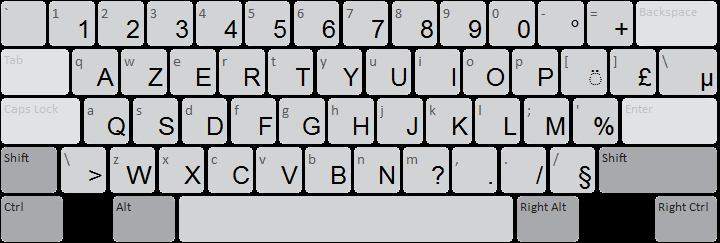
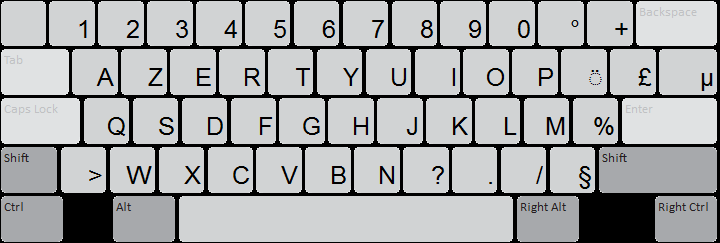
Updated help files to reflect swedish and french physical keyboards

diff --git a/togolese-help-us-qwerty.html b/togolese-help-us-qwerty.html
@@ -72,7 +72,7 @@
 
             <div class="alert alert-dismissible alert-warning">
               <button type="button" class="close" data-dismiss="alert">&times;</button>
-              <p>The Togolese layout is based on the Microsoft French (France) keyboard layout. All key sequence descriptions in this file are based on the printed keys on the French physical keyboard.</p>
+              <p>The Togolese layout is based on the Microsoft French (France) keyboard layout. All key sequence descriptions in this file are based on the printed keys on the US physical keyboard.</p>
               <p>The keyboard layout supports Adangbe, Ajagbe, Akaselem, Anii, Anufo, Bago/Kusuntu, Biali, Bisa, Delo, Ditammari, Evegbe, Fongbe, Fulfulde, Gengbe, Gidere, Ginyanga, Gulmancema, Ife, Igo, Ikposo, Kabiye, Kambole, Kebu, Konkomba, Kusaal, Lama, Lukpa, Mampruli, Mbelme, Migangam, Miyobe, Moba, Moore, Nawdm, Ncam, Pla-Peda and Tem.</p>
               <p>For KeymanWeb version of the layout, extended Latin characters are accessed via <kbd>Ctrl</kbd>+<kbd>Alt</kbd> key sequences. Keyman Desktop (Windows) and Keyman for Mac OSX use the <kbd>AltGr</kbd> and <kbd>Option</kbd> keys.</p>
             </div>
@@ -92,16 +92,16 @@
             </ul>
             <div id="myTabContent" class="tab-content">
               <div class="tab-pane fade active in" id="normal-state">
-                <p class="kbdimage"><img alt="Togolese keyboard layout &ndash; normal state" src="images/el_togoU_.png"></p>
+                <p class="kbdimage"><img alt="Togolese keyboard layout &ndash; normal state" src="images/el_togo_us_U_.png"></p>
               </div>
               <div class="tab-pane fade" id="shift-state">
-                <p class="kbdimage"><img alt="Togolese keyboard layout &ndash; shift state" src="images/el_togoU_S.png"></p>
+                <p class="kbdimage"><img alt="Togolese keyboard layout &ndash; shift state" src="images/el_togo_us_U_S.png"></p>
               </div>
               <div class="tab-pane fade" id="altgr-state">
-                <p class="kbdimage"><img alt="Togolese keyboard layout &ndash; AltGr state" src="images/el_togoU_RA.png"></p>
+                <p class="kbdimage"><img alt="Togolese keyboard layout &ndash; AltGr state" src="images/el_togo_us_U_RA.png"></p>
               </div>
               <div class="tab-pane fade" id="altgr-shift-state">
-                <p class="kbdimage"><img alt="Togolese keyboard layout &ndash; Shift AltGr state" src="images/el_togoU_SRA.png"></p>
+                <p class="kbdimage"><img alt="Togolese keyboard layout &ndash; Shift AltGr state" src="images/el_togo_us_U_SRA.png"></p>
               </div>
             </div>
 
@@ -130,15 +130,15 @@
                 </tr>
                 <tr>
                   <td class="glyph">ǝ</td>
-                  <td><kbd>AltGR</kbd>+<kbd>Q</kbd></td>
-                  <td><kbd>Option</kbd>+<kbd>Q</kbd></td>
-                  <td><kbd>Ctrl</kbd>+<kbd>Alt</kbd>+<kbd>Q</kbd></td>
+                  <td><kbd>AltGR</kbd>+<kbd>A</kbd></td>
+                  <td><kbd>Option</kbd>+<kbd>A</kbd></td>
+                  <td><kbd>Ctrl</kbd>+<kbd>Alt</kbd>+<kbd>A</kbd></td>
                 </tr>
                 <tr>
                  <td class="glyph">Ǝ</td>
-                 <td><kbd>AltGR</kbd>+<kbd>Shift</kbd>+<kbd>Q</kbd></td>
-                 <td><kbd>Option</kbd>+<kbd>Shift</kbd>+<kbd>Q</kbd></td>
-                 <td><kbd>Ctrl</kbd>+<kbd>Alt</kbd>+<kbd>Shift</kbd>+<kbd>Q</kbd></td>
+                 <td><kbd>AltGR</kbd>+<kbd>Shift</kbd>+<kbd>A</kbd></td>
+                 <td><kbd>Option</kbd>+<kbd>Shift</kbd>+<kbd>A</kbd></td>
+                 <td><kbd>Ctrl</kbd>+<kbd>Alt</kbd>+<kbd>Shift</kbd>+<kbd>A</kbd></td>
                 </tr>
                 <tr>
                   <td class="glyph">ɩ</td>
@@ -204,45 +204,45 @@
               <tbody>
                 <tr>
                   <td class="glyph">◌̂</td>
-                  <td><kbd>LBRCKT</kbd></td>
-                  <td><kbd>LBRCKT</kbd></td>
-                  <td><kbd>LBRCKT</kbd></td>
+                  <td><kbd>[</kbd></td>
+                  <td><kbd>[</kbd></td>
+                  <td><kbd>[</kbd></td>
                 </tr>
                 <tr>
                   <td class="glyph">◌̈</td>
-                  <td><kbd>Shift</kbd>+<kbd>^</kbd></td>
-                  <td><kbd>Shift</kbd>+<kbd>^</kbd></td>
-                  <td><kbd>Shift</kbd>+<kbd>^</kbd></td>
+                  <td><kbd>Shift</kbd>+<kbd>[</kbd></td>
+                  <td><kbd>Shift</kbd>+<kbd>[</kbd></td>
+                  <td><kbd>Shift</kbd>+<kbd>[</kbd></td>
                 </tr>
                 <tr>
                   <td class="glyph">◌̌</td>
-                  <td><kbd>AltGR</kbd>+<kbd>^</kbd></td>
-                  <td><kbd>Option</kbd>+<kbd>^</kbd></td>
-                  <td><kbd>Ctrl</kbd>+<kbd>Alt</kbd>+<kbd>^</kbd></td>
+                  <td><kbd>AltGR</kbd>+<kbd>[</kbd></td>
+                  <td><kbd>Option</kbd>+<kbd>[</kbd></td>
+                  <td><kbd>Ctrl</kbd>+<kbd>Alt</kbd>+<kbd>[</kbd></td>
                 </tr>
                 <tr>
                   <td class="glyph">◌́</td>
-                  <td><kbd>AltGR</kbd>+<kbd>*</kbd></td>
-                  <td><kbd>Option</kbd>+<kbd>*</kbd></td>
-                  <td><kbd>Ctrl</kbd>+<kbd>Alt</kbd>+<kbd>*</kbd></td>
+                  <td><kbd>AltGR</kbd>+<kbd>\</kbd></td>
+                  <td><kbd>Option</kbd>+<kbd>\</kbd></td>
+                  <td><kbd>Ctrl</kbd>+<kbd>Alt</kbd>+<kbd>\</kbd></td>
                 </tr>
                 <tr>
                   <td class="glyph">◌̀</td>
-                  <td><kbd>AltGR</kbd>+<kbd>Ù</kbd></td>
-                  <td><kbd>Option</kbd>+<kbd>Ù</kbd></td>
-                  <td><kbd>Ctrl</kbd>+<kbd>Alt</kbd>+<kbd>Ù</kbd></td>
+                  <td><kbd>AltGR</kbd>+<kbd>'</kbd></td>
+                  <td><kbd>Option</kbd>+<kbd>'</kbd></td>
+                  <td><kbd>Ctrl</kbd>+<kbd>Alt</kbd>+<kbd>'</kbd></td>
                 </tr>
                 <tr>
                   <td class="glyph">◌̄</td>
-                  <td><kbd>AltGR</kbd>+<kbd>:</kbd></td>
-                  <td><kbd>Option</kbd>+<kbd>:</kbd></td>
-                  <td><kbd>Ctrl</kbd>+<kbd>Alt</kbd>+<kbd>:</kbd></td>
+                  <td><kbd>AltGR</kbd>+<kbd>.</kbd></td>
+                  <td><kbd>Option</kbd>+<kbd>.</kbd></td>
+                  <td><kbd>Ctrl</kbd>+<kbd>Alt</kbd>+<kbd>.</kbd></td>
                 </tr>
                 <tr>
                   <td class="glyph">◌̃</td>
-                  <td><kbd>AltGR</kbd>+<kbd>!</kbd></td>
-                  <td><kbd>Option</kbd>+<kbd>!</kbd></td>
-                  <td><kbd>Ctrl</kbd>+<kbd>Alt</kbd>+<kbd>!</kbd></td>
+                  <td><kbd>AltGR</kbd>+<kbd>/</kbd></td>
+                  <td><kbd>Option</kbd>+<kbd>/</kbd></td>
+                  <td><kbd>Ctrl</kbd>+<kbd>Alt</kbd>+<kbd>/</kbd></td>
               </tr>
               </tbody>
             </table>
@@ -345,15 +345,15 @@
                 </tr>
                 <tr>
                   <td class="glyph">ɲ</td>
-                  <td><kbd>AltGR</kbd>+<kbd>Colon</kbd></td>
-                  <td><kbd>Option</kbd>+<kbd>Colon</kbd></td>
-                  <td><kbd>Ctrl</kbd>+<kbd>Alt</kbd>+<kbd>Colon</kbd></td>
+                  <td><kbd>AltGR</kbd>+<kbd>;</kbd></td>
+                  <td><kbd>Option</kbd>+<kbd>;</kbd></td>
+                  <td><kbd>Ctrl</kbd>+<kbd>Alt</kbd>+<kbd>;</kbd></td>
                 </tr>
                 <tr>
                  <td class="glyph">Ɲ</td>
-                 <td><kbd>AltGR</kbd>+<kbd>Shift</kbd>+<kbd>M</kbd></td>
-                 <td><kbd>Option</kbd>+<kbd>Shift</kbd>+<kbd>M</kbd></td>
-                 <td><kbd>Ctrl</kbd>+<kbd>Alt</kbd>+<kbd>Shift</kbd>+<kbd>M</kbd></td>
+                 <td><kbd>AltGR</kbd>+<kbd>Shift</kbd>+<kbd>;</kbd></td>
+                 <td><kbd>Option</kbd>+<kbd>Shift</kbd>+<kbd>;</kbd></td>
+                 <td><kbd>Ctrl</kbd>+<kbd>Alt</kbd>+<kbd>Shift</kbd>+<kbd>;</kbd></td>
                 </tr>
                 <tr>
                   <td class="glyph">ƴ</td>
@@ -375,9 +375,9 @@
                 </tr>
                 <tr>
                   <td class="glyph">Ʒ</td>
-                  <td><kbd>AltGR</kbd>+<kbd>Shift</kbd>+<kbd>Z</kbd></td>
-                  <td><kbd>Option</kbd>+<kbd>Shift</kbd>+<kbd>Z</kbd></td>
-                  <td><kbd>Ctrl</kbd>+<kbd>Alt</kbd>+<kbd>Shift</kbd>+<kbd>Z</kbd></td>
+                  <td><kbd>AltGR</kbd>+<kbd>Shift</kbd>+<kbd>W</kbd></td>
+                  <td><kbd>Option</kbd>+<kbd>Shift</kbd>+<kbd>W</kbd></td>
+                  <td><kbd>Ctrl</kbd>+<kbd>Alt</kbd>+<kbd>Shift</kbd>+<kbd>W</kbd></td>
                 </tr>
               </tbody>
             </table>

diff --git a/elfdalian-help-us-qwerty.html b/elfdalian-help-us-qwerty.html
@@ -72,7 +72,7 @@
 
             <div class="alert alert-dismissible alert-warning">
               <button type="button" class="close" data-dismiss="alert">&times;</button>
-              <p>The Elfdalian layout is based on the Swedish keyboard layout. All key sequence descriptions are based on the printed keys on a Swedish physical keyboard.</p>
+              <p>The Elfdalian layout is based on the Swedish keyboard layout. All key sequence descriptions on this page are based on the printed keys on a US English physical keyboard.</p>
               <p>For KeymanWeb version of the layout, extended Latin characters are accessed via <kbd>Ctrl</kbd>+<kbd>Alt</kbd> key sequences. Keyman Desktop (Windows) and Keyman for Mac OSX use the <kbd>AltGr</kbd> and <kbd>Option</kbd> keys.</p>
             </div>
 
@@ -91,16 +91,16 @@
             </ul>
             <div id="myTabContent" class="tab-content">
               <div class="tab-pane fade active in" id="normal-state">
-                <p class="kbdimage"><img alt="Elfdalian keyboard layout &ndash; normal state" src="images/el_elfdalianU_.png"></p>
+                <p class="kbdimage"><img alt="Elfdalian keyboard layout &ndash; normal state" src="images/el_elfdalian_us_U_.png"></p>
               </div>
               <div class="tab-pane fade" id="shift-state">
-                <p class="kbdimage"><img alt="Elfdalian keyboard layout &ndash; shift state" src="images/el_elfdalianU_S.png"></p>
+                <p class="kbdimage"><img alt="Elfdalian keyboard layout &ndash; shift state" src="images/el_elfdalian_us_U_S.png"></p>
               </div>
               <div class="tab-pane fade" id="altgr-state">
-                <p class="kbdimage"><img alt="Elfdalian keyboard layout &ndash; AltGr state" src="images/el_elfdalianU_RA.png"></p>
+                <p class="kbdimage"><img alt="Elfdalian keyboard layout &ndash; AltGr state" src="images/el_elfdalian_us_U_RA.png"></p>
               </div>
               <div class="tab-pane fade" id="altgr-shift-state">
-                <p class="kbdimage"><img alt="Elfdalian keyboard layout &ndash; Shift AltGr state" src="images/el_elfdalianU_SRA.png"></p>
+                <p class="kbdimage"><img alt="Elfdalian keyboard layout &ndash; Shift AltGr state" src="images/el_elfdalian_us_U_SRA.png"></p>
               </div>
             </div>
 
@@ -177,15 +177,15 @@
                 </tr>
                 <tr>
                   <td class="glyph">ą̊</td>
-                  <td><kbd>AltGR</kbd>+<kbd>Å</kbd></td>
-                  <td><kbd>Option</kbd>+<kbd>Å</kbd></td>
-                  <td><kbd>Ctrl</kbd>+<kbd>Alt</kbd>+<kbd>Å</kbd></td>
+                  <td><kbd>AltGR</kbd>+<kbd>[</kbd></td>
+                  <td><kbd>Option</kbd>+<kbd>[</kbd></td>
+                  <td><kbd>Ctrl</kbd>+<kbd>Alt</kbd>+<kbd>[</kbd></td>
                 </tr>
                 <tr>
                  <td class="glyph">Ą̊</td>
-                 <td><kbd>AltGR</kbd>+<kbd>Shift</kbd>+<kbd>Å</kbd></td>
-                 <td><kbd>Option</kbd>+<kbd>Shift</kbd>+<kbd>Å</kbd></td>
-                 <td><kbd>Ctrl</kbd>+<kbd>Alt</kbd>+<kbd>Shift</kbd>+<kbd>Å</kbd></td>
+                 <td><kbd>AltGR</kbd>+<kbd>Shift</kbd>+<kbd>[</kbd></td>
+                 <td><kbd>Option</kbd>+<kbd>Shift</kbd>+<kbd>[</kbd></td>
+                 <td><kbd>Ctrl</kbd>+<kbd>Alt</kbd>+<kbd>Shift</kbd>+<kbd>[</kbd></td>
                 </tr>
               </tbody>
             </table>
